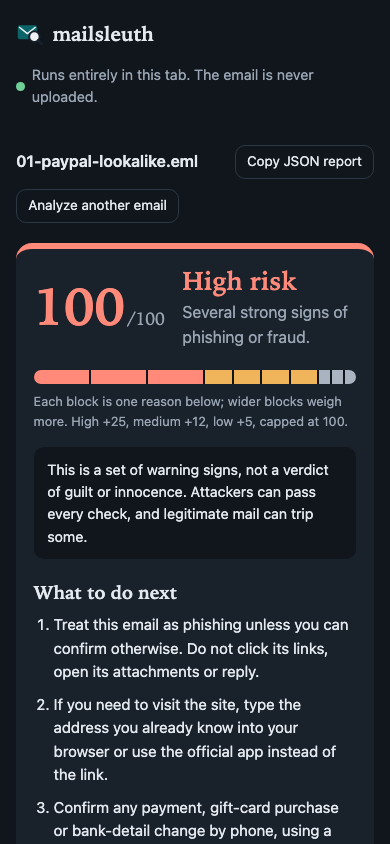
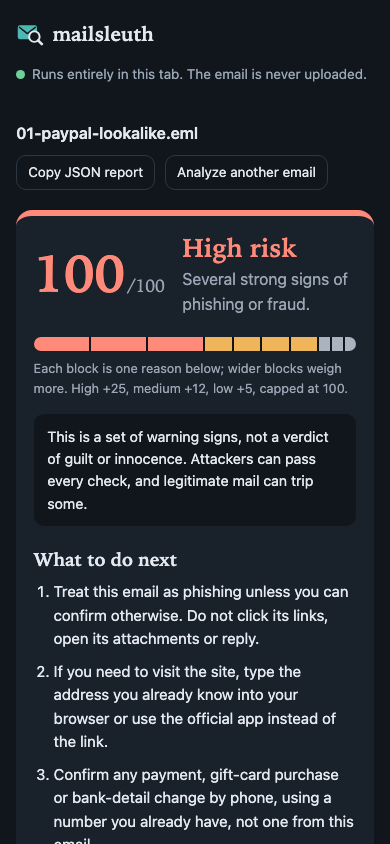
Refresh README screenshots and log the design round

Changed region(s): [[0.0308, 0.154, 0.9538, 1.0], [0.0308, 0.0308, 0.9231, 0.1232]]

diff --git a/CHANGELOG.md b/CHANGELOG.md
@@ -5,6 +5,11 @@ All notable changes to this project are documented here. Format: [Keep a Changel
 ## [Unreleased]
 
 ### Fixed
+- Phones: one long unbreakable token (the `data:` link in sample 05) widened the result page past the screen. Grid columns are now `minmax(0, 1fr)` and panels wrap long tokens.
+- Desktop: the sticky verdict column was taller than an 860px window, hiding the last "What to do next" steps until the end of the page. It now scrolls on its own and is keyboard-focusable (Shift+Tab from the verdict, then arrow keys/End).
+- Dark mode: the logo's magnifier handle was invisible and the lens a white blob; the SVG now has dark colours.
+- Input errors ("Nothing to analyze yet", too large, parse failure) were grey text far below the button; they now use the warning colour and empty paste returns focus to the paste box.
+- Screen readers: the risk score used `aria-label` on a paragraph, which is not announced; it is now visually hidden text. Copy buttons announce "Copied".
 - Pasted body text without headers was silently dropped and scored 0; it is now analyzed (links, wording) with a note that sender and authentication checks need the full source.
 - Look-alike false positives: everyday words one edit away from a brand ("cloud", "finance", "strip") and the surname Norton or the word "outlook" in a display name no longer score as brand impersonation.
 - Authentication-Results counted as verified when its server matched a forged lower `Received` hop or had no server name; it must now match the newest receiving hop (or a Microsoft 365 hop when unnamed).
@@ -18,9 +23,15 @@ All notable changes to this project are documented here. Format: [Keep a Changel
 - Postfix-style `Received: by host (Postfix, from userid 0)` showed a hop "from userid".
 - README brand count (44, not 43); the CLI build no longer copies the web favicon.
 
+### Added
+- Ctrl+Enter (Cmd+Enter on a Mac) in the paste box analyzes it.
+- Touch screens see "Choose an .eml file" instead of "Drop an .eml file here".
+- `npm run screenshots` now also checks: no horizontal scroll at 390px on every sample (measured against the device width, since mobile Chrome widens `innerWidth` to fit wide content and hid the old bug), the last next step reachable by keyboard, and the empty-paste error.
+
 ### Notes for the next contributor
 - Sample 05 imitates Microsoft 365 headers with reserved `example.net` host names, so it now shows "cannot be tied to a receiving server"; that is the new rule working, not a bug.
-- Codex hit its usage limit mid-review; areas it did not finish: CLI and web UI code paths.
+- Codex hit its usage limit mid-review in round 1 and again at the start of the design round; the CLI and web UI code paths still have had no second-opinion review.
+- README screenshots (`docs/screenshots/`) are copied from `test-results/screenshots/` after `npm run screenshots`.
 
 ## [0.1.0] - 2026-11-22
 
